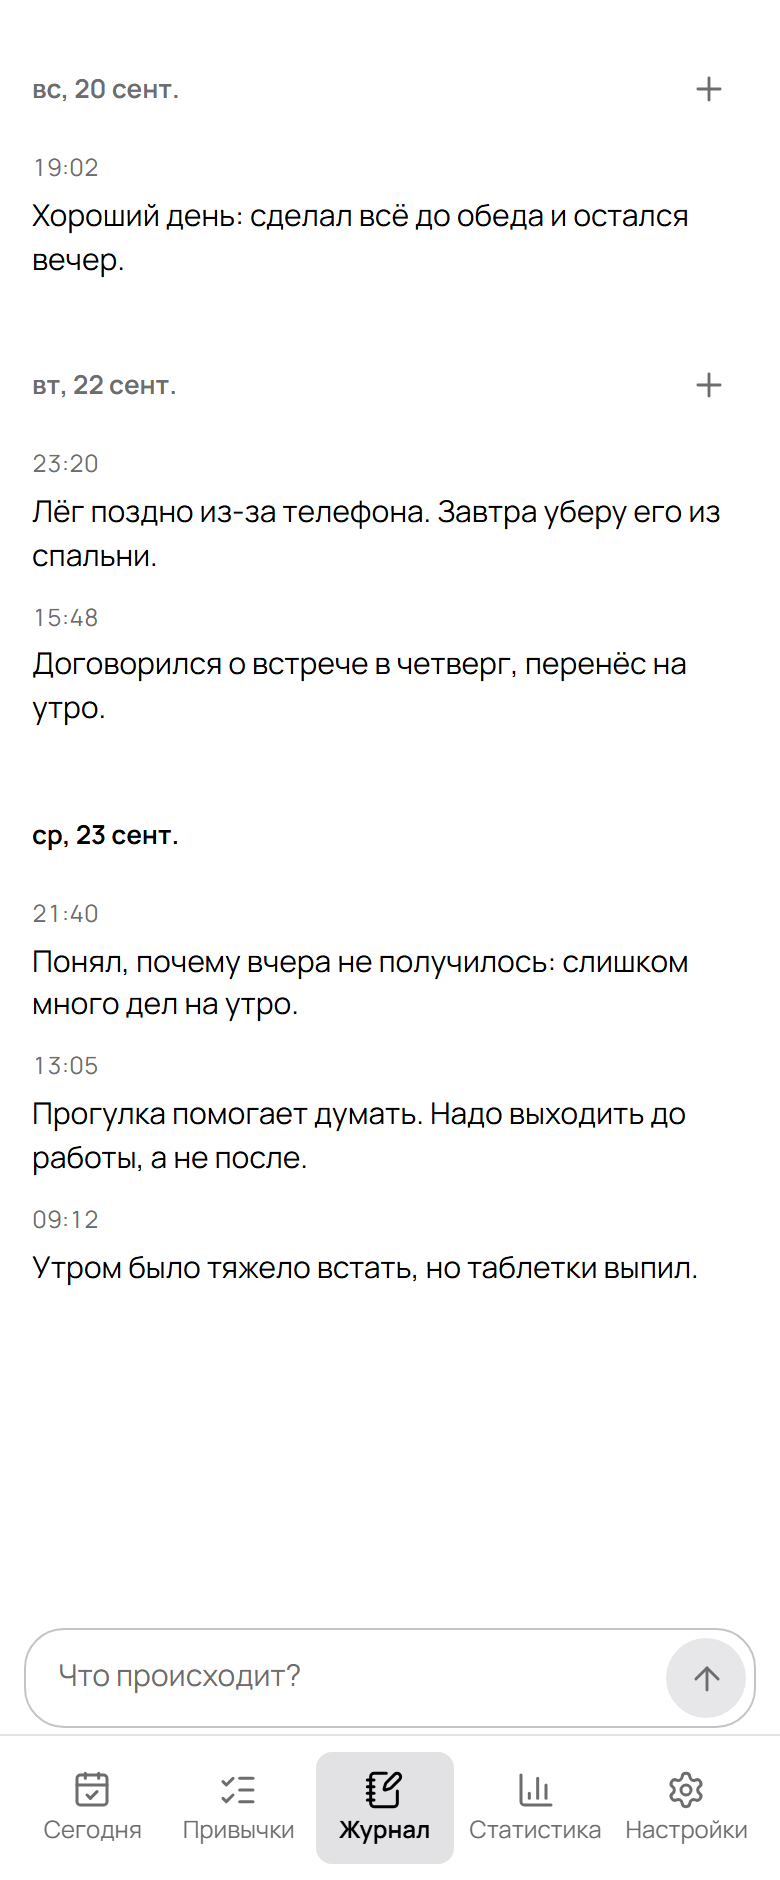
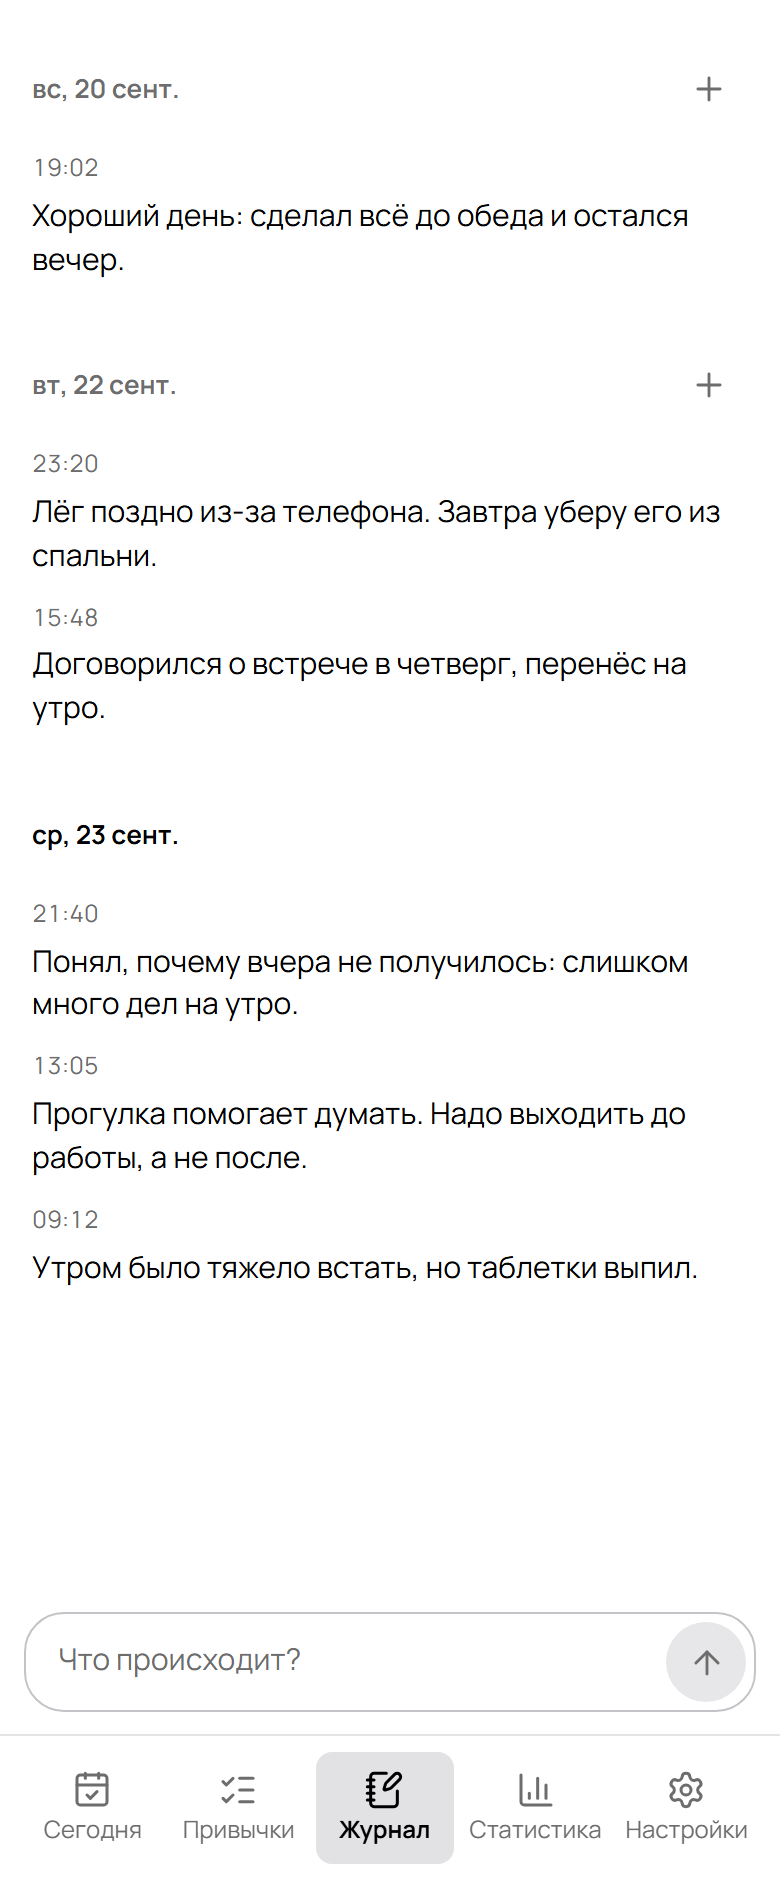
Журнал: 12px над композером и под ним, лента доезжает до последней заметки под клавиатурой (0.10.1)
- запас снизу у ленты и зазор до меню — один и тот же воздух: 12px над композером и 12px под ним
- зазор до меню вынесен в отдельный слой .jbar-gap: env(safe-area) больше не складывается в 32px на телефоне с вырезом
- пока клавиатура на экране, лента становится своим окном высотой в visualViewport: иначе браузер зажимает прокрутку по layout-вьюпорту и последняя заметка остаётся за панелью
- лента открывается внизу сразу, без плавного доезда
- 80 тестов, 17 e2e-проверок, снимки перегенерированы

Changed region(s): [[0.0308, 0.8638, 0.4, 0.9255], [0.9538, 0.8638, 0.9846, 0.8947], [0.8923, 0.8638, 0.9231, 0.8947]]

diff --git a/src/components/JournalView.tsx b/src/components/JournalView.tsx
@@ -253,10 +253,31 @@ export default function JournalView() {
         : ''
       : (draftOn(data, composer.day) ?? '');
 
-  /** Лента всегда открывается снизу: там последняя заметка и поле. */
+  /**
+   * Лента всегда открывается снизу: там последняя заметка и поле.
+   *
+   * Считаем по ближайшему прокручиваемому окну: пока в поле курсор, это окно
+   * самой ленты (`html[data-typing] .app`), без клавиатуры — страница. Через
+   * `scrollIntoView` не годится: он тянет вниз и панель, и меню, которые как раз
+   * и стоят внизу экрана.
+   */
+  /**
+   * Лента всегда открывается снизу: там последняя заметка и поле.
+   *
+   * Целимся не «в конец окна», а в последнюю строку: снизу у ленты запас под
+   * панель, и прокрутка до конца оставляла бы заметку высоко над композером —
+   * посреди пустого экрана. Считаем по самой панели, а не по числам запаса:
+   * панель знает, где она оказалась, а формула — только то, какой должна была
+   * быть.
+   */
   function toEnd(smooth = false) {
-    const top = document.documentElement.scrollHeight;
-    window.scrollTo({ top, behavior: smooth ? 'smooth' : 'auto' });
+    const app = document.querySelector('.app');
+    const behavior: ScrollBehavior = smooth ? 'smooth' : 'auto';
+    if (app && app.scrollHeight > app.clientHeight) {
+      app.scrollTo({ top: app.scrollHeight, behavior });
+      return;
+    }
+    window.scrollTo({ top: document.documentElement.scrollHeight, behavior });
   }
 
   // Высота панели переменная (поле растёт под текст), поэтому запас снизу считает
@@ -289,18 +310,43 @@ export default function JournalView() {
 
   const todayNotes = notesOn(data, today).length;
   useEffect(() => {
-    if (!opened.current) {
-      opened.current = true;
-      toEnd();
-      return;
-    }
-    toEnd(true);
+    // Первое открытие — без плавности: лента должна стоять внизу сразу, а не
+    // доезжать туда на глазах. Дальше новая заметка доезжает плавно.
+    toEnd(opened.current);
+    opened.current = true;
   }, [todayNotes]);
 
   // Клавиатура съела пол-экрана — последняя заметка всё равно должна быть видна.
+  // Прокрутку отпускаем без плавности: вместе с поднимающейся клавиатурой
+  // плавный ход читается как рывок, а показать надо сразу.
   useEffect(() => {
-    if (inset > 0) toEnd(true);
+    if (inset <= 0) return;
+    toEnd();
+    // Окну нужно стать прокручиваемым: в тот же кадр прокручивать ещё нечего.
+    const frame = window.requestAnimationFrame(() => toEnd());
+    return () => window.cancelAnimationFrame(frame);
   }, [inset]);
+
+  // Пока идёт набор, лента — своё окно (`html[data-typing] .app`): оно меняет
+  // высоту вместе с клавиатурой, а его содержимое — вместе с растущим полем.
+  // Одного `inset` мало: окно становится прокручиваемым уже после того, как
+  // эффект отработал, и прокрутить тогда ещё нечего. Поэтому следим за самим
+  // окном — и держим ленту внизу, пока оно меняется.
+  useEffect(() => {
+    const app = document.querySelector('.app');
+    if (!app || typeof ResizeObserver === 'undefined') return;
+    const pin = () => {
+      if (app.scrollHeight > app.clientHeight) app.scrollTop = app.scrollHeight;
+    };
+    pin();
+    const frame = window.requestAnimationFrame(pin);
+    const observer = new ResizeObserver(pin);
+    observer.observe(app);
+    return () => {
+      window.cancelAnimationFrame(frame);
+      observer.disconnect();
+    };
+  }, []);
 
   /** «+» у дня: пишем в него. Галочка у дня возвращает поле к сегодняшнему дню. */
   function writeTo(day: DateKey) {

diff --git a/src/styles.css b/src/styles.css
@@ -177,18 +177,44 @@ p {
   scroll-margin-bottom: calc(var(--tabs) + var(--s6) + env(safe-area-inset-bottom));
 }
 
-/* «Быстрые дела» — второе поле ввода в приложении. Пока в нём курсор, нижнее
-   меню уезжает и место освобождает высота клавиатуры (--kb, см. useKeyboardInset),
-   поэтому поле не оказывается под меню. */
+/* «Быстрые дела» — второе поле ввода в приложении. Пока в нём курсор, запас снизу
+   держит место под меню: клавиатуру из окна уже вычла его высота (--vv). */
 html[data-typing='true'] .app {
-  padding-bottom: calc(var(--kb, 0px) + var(--s5) + env(safe-area-inset-bottom));
+  padding-bottom: calc(var(--s5) + var(--tabs) + env(safe-area-inset-bottom));
 }
 
-/* Журнал: снизу ещё и панель заметки, поэтому запас считается по ней, а клавиатура
-   (--kb) добавляется сверху — иначе последняя заметка осталась бы за панелью. */
+/*
+ Пока клавиатура на экране, лента становится своим окном высотой в видимую часть
+ экрана (--vv, см. useKeyboardInset). Это не украшение, а единственный способ
+ показать последнюю заметку: браузер зажимает прокрутку страницы по layout-вьюпорту,
+ а он под клавиатурой не меняется — страница считает, что уже внизу, и на высоту
+ клавиатуры не доезжает (последняя строка остаётся за панелью). Своё окно меряется
+ по visualViewport, поэтому зажим считается правильно. Нижние полосы как были
+ `fixed`, так и остаются: они и так стоят по видимой части экрана.
+*/
+html[data-typing='true'] .app {
+  position: fixed;
+  inset: 0 0 auto;
+  height: var(--vv, 100vh);
+  overflow-y: auto;
+  -webkit-overflow-scrolling: touch;
+  overscroll-behavior: contain;
+}
+
+/* Поднятые полосы внутри окна уже стоят на месте: окно само кончается там, где
+   начинается клавиатура, а `translateY(-kb)` увёл бы их на две высоты сразу. */
+html[data-typing='true'] .jbar,
+html[data-typing='true'] .tabs {
+  transform: none;
+}
+
+/* Журнал: снизу ещё и панель заметки, поэтому запас считается по ней, а высота
+   клавиатуры добавляется сверху. Зазор до панели — тот же `--s2`, что и под
+   коробкой: воздух над композером и под ним одинаковый, и последняя заметка
+   никогда не прячется за панель. */
 .app[data-tab='journal'] {
   padding-bottom: calc(
-    var(--tabs) + var(--jbar) + var(--s4) + var(--kb, 0px) + env(safe-area-inset-bottom)
+    var(--tabs) + var(--jbar) + var(--s2) + var(--kb, 0px) + env(safe-area-inset-bottom)
   );
 }
 
@@ -1373,16 +1399,16 @@ html[data-typing='true'] .app {
   transform: translateY(calc(-1 * var(--kb, 0px)));
 }
 
-/* Воздух между коробкой композера и меню: ровно --s1, без safe-area. */
+/* Воздух между коробкой композера и меню: ровно --s3, без safe-area. */
 .jbar-gap {
-  height: var(--s1);
+  height: var(--s3);
 }
 
 .jbar-inner {
   display: flex;
   flex-direction: column;
   gap: var(--s2);
-  padding: var(--s2) calc(var(--s3) + env(safe-area-inset-left)) 0
+  padding: var(--s1) calc(var(--s3) + env(safe-area-inset-left)) 0
     calc(var(--s3) + env(safe-area-inset-right));
 }
 

diff --git a/src/lib/useKeyboardInset.ts b/src/lib/useKeyboardInset.ts
@@ -26,6 +26,7 @@ export function useKeyboardInset(active: boolean): number {
       setInset(0);
       wasOpen.current = false;
       root.style.removeProperty('--kb');
+      root.style.removeProperty('--vv');
       delete root.dataset.typing;
       return;
     }
@@ -45,6 +46,9 @@ export function useKeyboardInset(active: boolean): number {
       setInset(next);
       // Панель читает --kb и поднимается на эту высоту (см. .jbar в styles.css).
       root.style.setProperty('--kb', `${next}px`);
+      // Высота видимой части окна: на неё укорачивается лента, чтобы последняя
+      // заметка всё равно оказалась выше клавиатуры (см. html[data-typing] .app).
+      root.style.setProperty('--vv', `${Math.round(viewport?.height ?? window.innerHeight)}px`);
       if (closed && field instanceof HTMLElement && document.activeElement === field) field.blur();
     };
 
@@ -55,6 +59,7 @@ export function useKeyboardInset(active: boolean): number {
       viewport?.removeEventListener('resize', measure);
       viewport?.removeEventListener('scroll', measure);
       root.style.removeProperty('--kb');
+      root.style.removeProperty('--vv');
       delete root.dataset.typing;
     };
   }, [active]);

diff --git a/src/lib/version.ts b/src/lib/version.ts
@@ -1,1 +1,1 @@
-export const APP_VERSION = '0.10.0';
+export const APP_VERSION = '0.10.1';

diff --git a/README.md b/README.md
@@ -19,7 +19,7 @@ No accounts, no ads, no network: everything stays in the browser.
 [![React](https://img.shields.io/badge/React-19-0070f3?style=flat-square&labelColor=141418)](https://react.dev)
 [![TypeScript](https://img.shields.io/badge/TypeScript-7-0070f3?style=flat-square&labelColor=141418)](https://www.typescriptlang.org)
 [![Vite](https://img.shields.io/badge/Vite-8-0070f3?style=flat-square&labelColor=141418)](https://vite.dev)
-[![Bundle](https://img.shields.io/badge/bundle-87%20kB%20gzip-333538?style=flat-square&labelColor=141418)](docs/technical.md#build)
+[![Bundle](https://img.shields.io/badge/bundle-88%20kB%20gzip-333538?style=flat-square&labelColor=141418)](docs/technical.md#build)
 
 <table>
   <tr>

diff --git a/README.ru.md b/README.ru.md
@@ -19,7 +19,7 @@
 [![React](https://img.shields.io/badge/React-19-0070f3?style=flat-square&labelColor=141418)](https://react.dev)
 [![TypeScript](https://img.shields.io/badge/TypeScript-7-0070f3?style=flat-square&labelColor=141418)](https://www.typescriptlang.org)
 [![Vite](https://img.shields.io/badge/Vite-8-0070f3?style=flat-square&labelColor=141418)](https://vite.dev)
-[![Bundle](https://img.shields.io/badge/бандл-87%20kB%20gzip-333538?style=flat-square&labelColor=141418)](docs/technical.md#build)
+[![Bundle](https://img.shields.io/badge/бандл-88%20kB%20gzip-333538?style=flat-square&labelColor=141418)](docs/technical.md#build)
 
 <table>
   <tr>
